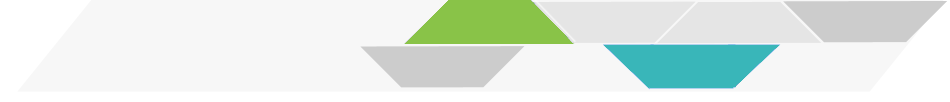
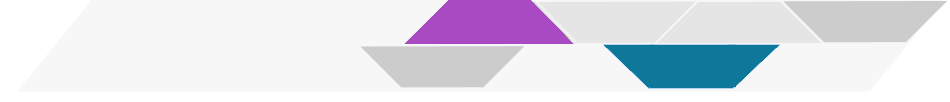
Render toc-less

Changed region(s): [[0.6105, 0.4412, 0.8242, 0.8824], [0.4274, 0.0, 0.6105, 0.4412]]

diff --git a/docs/no_toc/assets/style.css b/docs/no_toc/assets/style.css
@@ -43,7 +43,7 @@ pre code {
 /* ------------Links------------------ */
 
 .book .book-body .page-wrapper .page-inner section.normal a {
-  color: #89C348;
+  color: #00C1D5;
 }
 
 
@@ -71,14 +71,14 @@ h1, h2, h3, h4 {
 .title {
   font-family: 'Lora';
   font-size: 4em !important;
-  color: #112345;
+  color: #1B365D;
   margin-top: 0.275em !important;
   margin-bottom: 0.35em !important;
 }
 
 .subtitle {
   font-family: 'Lora';
-  color: #0b8d96;
+  color: #1B365D;
 }
 
 
@@ -101,7 +101,7 @@ h1, h2, h3, h4 {
 /*drop cap for first p beneath level 1 headers only within class .section*/
 /*
 .section.level1 > p:first-of-type:first-letter { 
-  color: #112345;
+  color: #1B365D;
   float: left;
   font-family: 'Abril Fatface', serif;
   font-size: 7em;
@@ -141,7 +141,7 @@ h1, h2, h3, h4 {
 /*---color of links in TOC----*/
 
 .book .book-summary a {
-color: #112345
+color: #1B365D
 }
 
 .summary{
@@ -155,17 +155,17 @@ color: #112345
   padding-bottom: 8px;
   padding-left: 15px;
   padding-right: 15px;
-  color: #112345;
+  color: #1B365D;
 }
 
 .summary a:hover {
-  color: #89C348 !important;
+  color: #00C1D5 !important;
 }
 
 .book .book-summary ul.summary li.active>a { /*active TOC links*/
-  color: #89C348 !important;
+  color: #00C1D5 !important;
   border-left: solid 4px;
-  border-color: #89C348;
+  border-color: #00C1D5;
   padding-left: 11px !important;
 }
 
@@ -263,7 +263,7 @@ div.notice, div.warning, div.github, div.dictionary, div.reflection, div.termina
 }
 
 div.notice{
-  border: 4px #89C348;
+  border: 4px #00C1D5;
   background-size: 70px;
   background-position: 15px center;
   background-color: #e8ebee;
@@ -287,7 +287,7 @@ div.github{
 }
 
 div.dictionary{
-  border: 4px #89C348;
+  border: 4px #00C1D5;
   background-size: 70px;
   background-position: 15px center;
   background-color: #e8ebee;
@@ -295,7 +295,7 @@ div.dictionary{
 }
 
 div.reflection{
-  border: 4px #89C348;
+  border: 4px #00C1D5;
   background-size: 90px;
   background-position: 15px center;
   background-color: #e8ebee;
@@ -303,7 +303,7 @@ div.reflection{
 }
 
 div.terminal{
-  border: 4px #89C348;
+  border: 4px #00C1D5;
   background-size: 70px;
   background-position: 15px center;
   background-color: #e8ebee;

diff --git a/docs/no_toc/404.html b/docs/no_toc/404.html
@@ -146,7 +146,7 @@
 <li class="divider"></li>
 <p style="text-align:center;"> <a href="https://github.com/jhudsl/OTTR_Template" target="blank" > This content was published with</a> <a href="https://bookdown.org/" target="blank"> bookdown by: </a> </p>
 <p style="text-align:center;"> <a href="http://hutchdatascience.org/"> The Fred Hutch Data Science Lab </a></p>
-<a href="http://hutchdatascience.org/"><img src="https://hutchdatascience.org/images/FHDataScienceLab_RecDropped.png" style=" width: 80%; padding-left: 40px; padding-top: 8px; vertical-align: top "</a>
+<a href="http://hutchdatascience.org/"><img src="https://hutchdatascience.org/images/FHDataScienceLab_Rec_funfetti.png" style=" width: 80%; padding-left: 40px; padding-top: 8px; vertical-align: top "</a>
 <p style="text-align:center; font-size: 12px;"> <a href="https://github.com/rstudio4edu/rstudio4edu-book/"> Style adapted from: rstudio4edu-book </a> <a href ="https://creativecommons.org/licenses/by/2.0/"> (CC-BY 2.0) </a></p>
 
 </ul>

diff --git a/docs/no_toc/about-the-authors.html b/docs/no_toc/about-the-authors.html
@@ -146,7 +146,7 @@
 <li class="divider"></li>
 <p style="text-align:center;"> <a href="https://github.com/jhudsl/OTTR_Template" target="blank" > This content was published with</a> <a href="https://bookdown.org/" target="blank"> bookdown by: </a> </p>
 <p style="text-align:center;"> <a href="http://hutchdatascience.org/"> The Fred Hutch Data Science Lab </a></p>
-<a href="http://hutchdatascience.org/"><img src="https://hutchdatascience.org/images/FHDataScienceLab_RecDropped.png" style=" width: 80%; padding-left: 40px; padding-top: 8px; vertical-align: top "</a>
+<a href="http://hutchdatascience.org/"><img src="https://hutchdatascience.org/images/FHDataScienceLab_Rec_funfetti.png" style=" width: 80%; padding-left: 40px; padding-top: 8px; vertical-align: top "</a>
 <p style="text-align:center; font-size: 12px;"> <a href="https://github.com/rstudio4edu/rstudio4edu-book/"> Style adapted from: rstudio4edu-book </a> <a href ="https://creativecommons.org/licenses/by/2.0/"> (CC-BY 2.0) </a></p>
 
 </ul>

diff --git a/docs/no_toc/account-setup.html b/docs/no_toc/account-setup.html
@@ -146,7 +146,7 @@
 <li class="divider"></li>
 <p style="text-align:center;"> <a href="https://github.com/jhudsl/OTTR_Template" target="blank" > This content was published with</a> <a href="https://bookdown.org/" target="blank"> bookdown by: </a> </p>
 <p style="text-align:center;"> <a href="http://hutchdatascience.org/"> The Fred Hutch Data Science Lab </a></p>
-<a href="http://hutchdatascience.org/"><img src="https://hutchdatascience.org/images/FHDataScienceLab_RecDropped.png" style=" width: 80%; padding-left: 40px; padding-top: 8px; vertical-align: top "</a>
+<a href="http://hutchdatascience.org/"><img src="https://hutchdatascience.org/images/FHDataScienceLab_Rec_funfetti.png" style=" width: 80%; padding-left: 40px; padding-top: 8px; vertical-align: top "</a>
 <p style="text-align:center; font-size: 12px;"> <a href="https://github.com/rstudio4edu/rstudio4edu-book/"> Style adapted from: rstudio4edu-book </a> <a href ="https://creativecommons.org/licenses/by/2.0/"> (CC-BY 2.0) </a></p>
 
 </ul>

diff --git a/docs/no_toc/faq-troubleshooting.html b/docs/no_toc/faq-troubleshooting.html
@@ -146,7 +146,7 @@
 <li class="divider"></li>
 <p style="text-align:center;"> <a href="https://github.com/jhudsl/OTTR_Template" target="blank" > This content was published with</a> <a href="https://bookdown.org/" target="blank"> bookdown by: </a> </p>
 <p style="text-align:center;"> <a href="http://hutchdatascience.org/"> The Fred Hutch Data Science Lab </a></p>
-<a href="http://hutchdatascience.org/"><img src="https://hutchdatascience.org/images/FHDataScienceLab_RecDropped.png" style=" width: 80%; padding-left: 40px; padding-top: 8px; vertical-align: top "</a>
+<a href="http://hutchdatascience.org/"><img src="https://hutchdatascience.org/images/FHDataScienceLab_Rec_funfetti.png" style=" width: 80%; padding-left: 40px; padding-top: 8px; vertical-align: top "</a>
 <p style="text-align:center; font-size: 12px;"> <a href="https://github.com/rstudio4edu/rstudio4edu-book/"> Style adapted from: rstudio4edu-book </a> <a href ="https://creativecommons.org/licenses/by/2.0/"> (CC-BY 2.0) </a></p>
 
 </ul>

diff --git a/docs/no_toc/feedback.html b/docs/no_toc/feedback.html
@@ -146,7 +146,7 @@
 <li class="divider"></li>
 <p style="text-align:center;"> <a href="https://github.com/jhudsl/OTTR_Template" target="blank" > This content was published with</a> <a href="https://bookdown.org/" target="blank"> bookdown by: </a> </p>
 <p style="text-align:center;"> <a href="http://hutchdatascience.org/"> The Fred Hutch Data Science Lab </a></p>
-<a href="http://hutchdatascience.org/"><img src="https://hutchdatascience.org/images/FHDataScienceLab_RecDropped.png" style=" width: 80%; padding-left: 40px; padding-top: 8px; vertical-align: top "</a>
+<a href="http://hutchdatascience.org/"><img src="https://hutchdatascience.org/images/FHDataScienceLab_Rec_funfetti.png" style=" width: 80%; padding-left: 40px; padding-top: 8px; vertical-align: top "</a>
 <p style="text-align:center; font-size: 12px;"> <a href="https://github.com/rstudio4edu/rstudio4edu-book/"> Style adapted from: rstudio4edu-book </a> <a href ="https://creativecommons.org/licenses/by/2.0/"> (CC-BY 2.0) </a></p>
 
 </ul>

diff --git a/docs/no_toc/file-upload-and-download.html b/docs/no_toc/file-upload-and-download.html
@@ -146,7 +146,7 @@
 <li class="divider"></li>
 <p style="text-align:center;"> <a href="https://github.com/jhudsl/OTTR_Template" target="blank" > This content was published with</a> <a href="https://bookdown.org/" target="blank"> bookdown by: </a> </p>
 <p style="text-align:center;"> <a href="http://hutchdatascience.org/"> The Fred Hutch Data Science Lab </a></p>
-<a href="http://hutchdatascience.org/"><img src="https://hutchdatascience.org/images/FHDataScienceLab_RecDropped.png" style=" width: 80%; padding-left: 40px; padding-top: 8px; vertical-align: top "</a>
+<a href="http://hutchdatascience.org/"><img src="https://hutchdatascience.org/images/FHDataScienceLab_Rec_funfetti.png" style=" width: 80%; padding-left: 40px; padding-top: 8px; vertical-align: top "</a>
 <p style="text-align:center; font-size: 12px;"> <a href="https://github.com/rstudio4edu/rstudio4edu-book/"> Style adapted from: rstudio4edu-book </a> <a href ="https://creativecommons.org/licenses/by/2.0/"> (CC-BY 2.0) </a></p>
 
 </ul>

diff --git a/docs/no_toc/help.html b/docs/no_toc/help.html
@@ -146,7 +146,7 @@
 <li class="divider"></li>
 <p style="text-align:center;"> <a href="https://github.com/jhudsl/OTTR_Template" target="blank" > This content was published with</a> <a href="https://bookdown.org/" target="blank"> bookdown by: </a> </p>
 <p style="text-align:center;"> <a href="http://hutchdatascience.org/"> The Fred Hutch Data Science Lab </a></p>
-<a href="http://hutchdatascience.org/"><img src="https://hutchdatascience.org/images/FHDataScienceLab_RecDropped.png" style=" width: 80%; padding-left: 40px; padding-top: 8px; vertical-align: top "</a>
+<a href="http://hutchdatascience.org/"><img src="https://hutchdatascience.org/images/FHDataScienceLab_Rec_funfetti.png" style=" width: 80%; padding-left: 40px; padding-top: 8px; vertical-align: top "</a>
 <p style="text-align:center; font-size: 12px;"> <a href="https://github.com/rstudio4edu/rstudio4edu-book/"> Style adapted from: rstudio4edu-book </a> <a href ="https://creativecommons.org/licenses/by/2.0/"> (CC-BY 2.0) </a></p>
 
 </ul>

diff --git a/docs/no_toc/index.html b/docs/no_toc/index.html
@@ -146,7 +146,7 @@
 <li class="divider"></li>
 <p style="text-align:center;"> <a href="https://github.com/jhudsl/OTTR_Template" target="blank" > This content was published with</a> <a href="https://bookdown.org/" target="blank"> bookdown by: </a> </p>
 <p style="text-align:center;"> <a href="http://hutchdatascience.org/"> The Fred Hutch Data Science Lab </a></p>
-<a href="http://hutchdatascience.org/"><img src="https://hutchdatascience.org/images/FHDataScienceLab_RecDropped.png" style=" width: 80%; padding-left: 40px; padding-top: 8px; vertical-align: top "</a>
+<a href="http://hutchdatascience.org/"><img src="https://hutchdatascience.org/images/FHDataScienceLab_Rec_funfetti.png" style=" width: 80%; padding-left: 40px; padding-top: 8px; vertical-align: top "</a>
 <p style="text-align:center; font-size: 12px;"> <a href="https://github.com/rstudio4edu/rstudio4edu-book/"> Style adapted from: rstudio4edu-book </a> <a href ="https://creativecommons.org/licenses/by/2.0/"> (CC-BY 2.0) </a></p>
 
 </ul>

diff --git a/docs/no_toc/interactive-session.html b/docs/no_toc/interactive-session.html
@@ -146,7 +146,7 @@
 <li class="divider"></li>
 <p style="text-align:center;"> <a href="https://github.com/jhudsl/OTTR_Template" target="blank" > This content was published with</a> <a href="https://bookdown.org/" target="blank"> bookdown by: </a> </p>
 <p style="text-align:center;"> <a href="http://hutchdatascience.org/"> The Fred Hutch Data Science Lab </a></p>
-<a href="http://hutchdatascience.org/"><img src="https://hutchdatascience.org/images/FHDataScienceLab_RecDropped.png" style=" width: 80%; padding-left: 40px; padding-top: 8px; vertical-align: top "</a>
+<a href="http://hutchdatascience.org/"><img src="https://hutchdatascience.org/images/FHDataScienceLab_Rec_funfetti.png" style=" width: 80%; padding-left: 40px; padding-top: 8px; vertical-align: top "</a>
 <p style="text-align:center; font-size: 12px;"> <a href="https://github.com/rstudio4edu/rstudio4edu-book/"> Style adapted from: rstudio4edu-book </a> <a href ="https://creativecommons.org/licenses/by/2.0/"> (CC-BY 2.0) </a></p>
 
 </ul>

diff --git a/docs/no_toc/logging-in.html b/docs/no_toc/logging-in.html
@@ -146,7 +146,7 @@
 <li class="divider"></li>
 <p style="text-align:center;"> <a href="https://github.com/jhudsl/OTTR_Template" target="blank" > This content was published with</a> <a href="https://bookdown.org/" target="blank"> bookdown by: </a> </p>
 <p style="text-align:center;"> <a href="http://hutchdatascience.org/"> The Fred Hutch Data Science Lab </a></p>
-<a href="http://hutchdatascience.org/"><img src="https://hutchdatascience.org/images/FHDataScienceLab_RecDropped.png" style=" width: 80%; padding-left: 40px; padding-top: 8px; vertical-align: top "</a>
+<a href="http://hutchdatascience.org/"><img src="https://hutchdatascience.org/images/FHDataScienceLab_Rec_funfetti.png" style=" width: 80%; padding-left: 40px; padding-top: 8px; vertical-align: top "</a>
 <p style="text-align:center; font-size: 12px;"> <a href="https://github.com/rstudio4edu/rstudio4edu-book/"> Style adapted from: rstudio4edu-book </a> <a href ="https://creativecommons.org/licenses/by/2.0/"> (CC-BY 2.0) </a></p>
 
 </ul>

diff --git a/docs/no_toc/references.html b/docs/no_toc/references.html
@@ -146,7 +146,7 @@
 <li class="divider"></li>
 <p style="text-align:center;"> <a href="https://github.com/jhudsl/OTTR_Template" target="blank" > This content was published with</a> <a href="https://bookdown.org/" target="blank"> bookdown by: </a> </p>
 <p style="text-align:center;"> <a href="http://hutchdatascience.org/"> The Fred Hutch Data Science Lab </a></p>
-<a href="http://hutchdatascience.org/"><img src="https://hutchdatascience.org/images/FHDataScienceLab_RecDropped.png" style=" width: 80%; padding-left: 40px; padding-top: 8px; vertical-align: top "</a>
+<a href="http://hutchdatascience.org/"><img src="https://hutchdatascience.org/images/FHDataScienceLab_Rec_funfetti.png" style=" width: 80%; padding-left: 40px; padding-top: 8px; vertical-align: top "</a>
 <p style="text-align:center; font-size: 12px;"> <a href="https://github.com/rstudio4edu/rstudio4edu-book/"> Style adapted from: rstudio4edu-book </a> <a href ="https://creativecommons.org/licenses/by/2.0/"> (CC-BY 2.0) </a></p>
 
 </ul>
